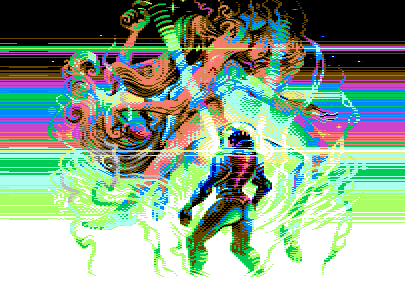
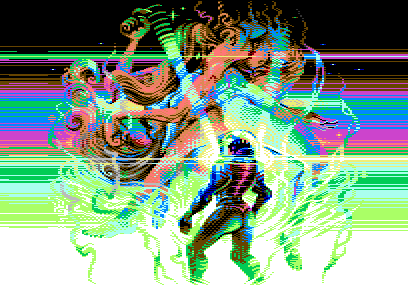
Show as much of the raster as VICE does
Our visible window was 405x284; VICE's, with full borders on, is 408x293.
Measuring both boot screens by the one landmark that is unambiguous in
each - the 320x200 display window - shows where the difference sits:

               VICE          ours
  raster       408x293       405x284
  window x     48..367       48..367
  window y     43..242       35..234
  margins      48/40/43/50   48/37/35/49   (l/r/t/b)

The left margin and the window's x origin already agreed, so dot 0 was
never in the wrong place; we were simply cutting three dots off the right
and nine lines off the top and bottom. Three constants say so:

  VisibleDotsPerLine  405 -> 408
  lastVBlankLine       15 -> 7     (FirstVisibleLine 16 -> 8)
  firstVBlankLine     300 -> 301   (VisibleLines 284 -> 293)

Nothing in the VIC's timing reads these. lineVisible gates whether a dot
is stored, not whether it is generated, and bad lines, sprite fetches and
raster IRQs all compare rasterLine directly. cmd/snapshot's activeBounds
is already written in absolute raster lines (51..251), so it followed the
change on its own and lands at y=43, which is where VICE has it.

The fixtures are regenerated, and every pixel of the old ones survives at
the same absolute raster coordinate - old row j is new row j+8, same x,
zero differences across all eight. So this is framing, not rendering.

What that newly uncovered territory contains is the part worth checking
against VICE, because it was never on screen before. It is not all
[…]

diff --git a/cmd/snapshot/fixtures_unit_test.go b/cmd/snapshot/fixtures_unit_test.go
@@ -30,6 +30,8 @@ func solidSnapshot(bounds image.Rectangle, index int) *image.RGBA {
 
 func TestCompareSnapshots(t *testing.T) {
 	bounds := snapshotBounds(false)
+	lastX, lastY := bounds.Dx()-1, bounds.Dy()-1
+	pixels := bounds.Dx() * bounds.Dy()
 	for _, tc := range []struct {
 		name string
 		edit func(*image.RGBA) image.Image
@@ -37,12 +39,12 @@ func TestCompareSnapshots(t *testing.T) {
 	}{
 		{"identical", func(img *image.RGBA) image.Image { return img }, ""},
 		{"one-pixel", func(img *image.RGBA) image.Image {
-			img.SetRGBA(404, 283, paletteColour(2))
+			img.SetRGBA(lastX, lastY, paletteColour(2))
 			return img
-		}, "1/115020 pixels differ; first mismatch at (404,283); expected colour index 0, actual colour index 2"},
+		}, fmt.Sprintf("1/%d pixels differ; first mismatch at (%d,%d); expected colour index 0, actual colour index 2", pixels, lastX, lastY)},
 		{"full-raster", func(*image.RGBA) image.Image {
 			return solidSnapshot(bounds, 2)
-		}, "115020/115020 pixels differ; first mismatch at (0,0); expected colour index 0, actual colour index 2"},
+		}, fmt.Sprintf("%d/%d pixels differ; first mismatch at (0,0); expected colour index 0, actual colour index 2", pixels, pixels)},
 		{"dimensions", func(*image.RGBA) image.Image {
 			return solidSnapshot(snapshotBounds(true), 0)
 		}, "dimensions"},
@@ -83,7 +85,7 @@ func TestCompareSnapshots(t *testing.T) {
 				t.Fatalf("diff bounds = %v", diff.Bounds())
 			}
 			if tc.name == "one-pixel" {
-				if got := diff.RGBAAt(404, 283); got != (color.RGBA{255, 0, 255, 255}) {
+				if got := diff.RGBAAt(lastX, lastY); got != (color.RGBA{255, 0, 255, 255}) {
 					t.Fatalf("mismatch diff pixel = %v", got)
 				}
 				if got := diff.RGBAAt(0, 0); got != (color.RGBA{0, 0, 0, 255}) {
@@ -128,7 +130,7 @@ func TestReadSnapshot(t *testing.T) {
 			t.Fatalf("wrong dimensions: %v", err)
 		}
 	}
-	if err := writePNG(path, solidSnapshot(image.Rect(0, 0, 406, 284), 0)); err != nil {
+	if err := writePNG(path, solidSnapshot(image.Rect(0, 0, tiny64.VisibleDotsPerLine+1, tiny64.VisibleLines), 0)); err != nil {
 		t.Fatal(err)
 	}
 	if _, err := readSnapshot(path, snapshotBounds(false)); err == nil {

diff --git a/6569.go b/6569.go
@@ -12,20 +12,26 @@ const (
 
 	// dot 0 is the leftmost position of a raster line (inside the left
 	// overscan, so not necessarily visible on a given TV); the beam moves
-	// one dot right per dot clock, and dots 0-404 carry picture. The
+	// one dot right per dot clock, and dots 0-407 carry picture. The
 	// remaining dots are the horizontal blanking interval, during which
 	// the beam retraces to the left and the line counter advances.
-	VisibleDotsPerLine = 405
+	//
+	// 408 is how much of the line VICE keeps with full borders on. The
+	// display window lands at dots 48-367 either way, so this only widens
+	// the right border; the left edge is already where VICE puts it.
+	VisibleDotsPerLine = 408
 
-	// PAL 6569 vertical blanking interval: raster lines 300-311 and 0-15,
-	// during which the video signal (and thus the raster) is off.
-	firstVBlankLine = 300
-	lastVBlankLine  = 15
+	// PAL 6569 vertical blanking interval: raster lines 301-311 and 0-7.
+	// These bound the picture rather than the 6569's own blanking, and are
+	// set to keep the same 293 lines VICE shows with full borders on.
+	firstVBlankLine = 301
+	lastVBlankLine  = 7
 
-	// The picture occupies raster lines 16-299; writePixelToBuffer is
+	// The picture occupies raster lines 8-300; writePixelToBuffer is
 	// never called outside FirstVisibleLine..FirstVisibleLine+VisibleLines
 	// horizontally 0..VisibleDotsPerLine, so a display only needs a buffer
-	// that size.
+	// that size. The display window is raster lines 51-250, leaving 43
+	// lines of border above it and 50 below, as VICE has it.
 	FirstVisibleLine = lastVBlankLine + 1
 	VisibleLines     = firstVBlankLine - FirstVisibleLine
 

diff --git a/pixel_sink_indexed_test.go b/pixel_sink_indexed_test.go
@@ -17,12 +17,15 @@ func saveFrameBuffers(t *testing.T) {
 
 func TestFrameBufferIndexedLayout(t *testing.T) {
 	saveFrameBuffers(t)
+	// 408 dots is already a multiple of four, so the stride carries no
+	// padding; the row-length check below would not catch a regression
+	// that reintroduced some, hence asserting both.
 	if FrameBufferStride != 408 || FrameBufferStride%4 != 0 {
 		t.Fatalf("indexed stride = %d, want 408 and divisible by four", FrameBufferStride)
 	}
 	fb := FrameBufferIndexed()
-	if len(fb) != 115872 {
-		t.Fatalf("indexed visible length = %d, want 115872", len(fb))
+	if want := FrameBufferStride * VisibleLines; len(fb) != want {
+		t.Fatalf("indexed visible length = %d, want %d", len(fb), want)
 	}
 	for i := range frameBufferIndexed {
 		frameBufferIndexed[i] = 0xff
@@ -49,8 +52,8 @@ func TestFrameBufferIndexedLayout(t *testing.T) {
 	}
 
 	rgba := FrameBufferRGBA()
-	if len(rgba) != 460080 {
-		t.Fatalf("RGBA length = %d, want 460080", len(rgba))
+	if want := VisibleDotsPerLine * VisibleLines * 4; len(rgba) != want {
+		t.Fatalf("RGBA length = %d, want %d", len(rgba), want)
 	}
 	for y := range VisibleLines {
 		for x := range VisibleDotsPerLine {

diff --git a/cmd/snapshot/main_test.go b/cmd/snapshot/main_test.go
@@ -74,14 +74,14 @@ func TestCaptureBounds(t *testing.T) {
 	}
 
 	full := capture(fb, borderBounds)
-	if got := full.Bounds(); got != imageRect(405, 284) {
+	if got := full.Bounds(); got != imageRect(tiny64.VisibleDotsPerLine, tiny64.VisibleLines) {
 		t.Fatalf("border bounds = %v", got)
 	}
 	cropped := capture(fb, activeBounds)
 	if got := cropped.Bounds(); got != imageRect(320, 200) {
 		t.Fatalf("crop bounds = %v", got)
 	}
-	if got := cropped.RGBAAt(0, 0); got != (color.RGBA{48, 35, 0xaa, 0xff}) {
+	if got := cropped.RGBAAt(0, 0); got != (color.RGBA{48, byte(51 - tiny64.FirstVisibleLine), 0xaa, 0xff}) {
 		t.Fatalf("first crop pixel = %#v", got)
 	}
 }
@@ -115,7 +115,7 @@ func TestRenderMachineCode(t *testing.T) {
 	if err != nil {
 		t.Fatal(err)
 	}
-	if got := img.Bounds(); got != imageRect(405, 284) {
+	if got := img.Bounds(); got != imageRect(tiny64.VisibleDotsPerLine, tiny64.VisibleLines) {
 		t.Fatalf("rendered bounds = %v", got)
 	}
 	if got := color.RGBAModel.Convert(img.At(0, 0)).(color.RGBA); got != (color.RGBA{0x88, 0, 0, 0xff}) {

diff --git a/cmd/internal/desktop/display_test.go b/cmd/internal/desktop/display_test.go
@@ -26,15 +26,16 @@ func TestDisplayDimensions(t *testing.T) {
 	}
 	defer d.shader.Deallocate()
 	defer d.frame.Deallocate()
-	if got := d.frame.Bounds().Size(); got.X != 102 || got.Y != 284 {
-		t.Fatalf("texture size = %v, want 102x284", got)
+	wantX, wantY := tiny64.FrameBufferStride/4, tiny64.VisibleLines
+	if got := d.frame.Bounds().Size(); got.X != wantX || got.Y != wantY {
+		t.Fatalf("texture size = %v, want %dx%d", got, wantX, wantY)
 	}
 	if got, want := len(tiny64.FrameBufferIndexed()), 4*d.frame.Bounds().Dx()*d.frame.Bounds().Dy(); got != want {
 		t.Fatalf("indexed length = %d, want %d upload bytes", got, want)
 	}
 	var e emulator
-	if w, h := e.Layout(810, 568); w != 405 || h != 284 {
-		t.Fatalf("visible size = %dx%d, want 405x284", w, h)
+	if w, h := e.Layout(810, 568); w != tiny64.VisibleDotsPerLine || h != tiny64.VisibleLines {
+		t.Fatalf("visible size = %dx%d, want %dx%d", w, h, tiny64.VisibleDotsPerLine, tiny64.VisibleLines)
 	}
 }
 

diff --git a/cmd/snapshot/main.go b/cmd/snapshot/main.go
@@ -101,7 +101,7 @@ func parseFlags(args []string) (config, error) {
 	fs.StringVar(&cfg.output, "o", "snapshot.png", "final PNG filename")
 	fs.StringVar(&cfg.outPattern, "out-pattern", "", "write every frame using a fmt pattern such as frame_%04d.png")
 	fs.BoolVar(&cfg.crop, "crop", false, "capture only the 320x200 active display")
-	fs.BoolVar(&cfg.border, "border", false, "capture the full 405x284 visible PAL raster (default)")
+	fs.BoolVar(&cfg.border, "border", false, "capture the full 408x293 visible PAL raster (default)")
 	fs.Var(&cfg.start, "start", "entry address for machine code, in decimal, $hex, or 0xhex")
 	if err := fs.Parse(args); err != nil {
 		return config{}, err

diff --git a/README.md b/README.md
@@ -288,18 +288,18 @@ through a palette shader. The `pixelsink_func` build uses the same storage
 but calls the pixel writer indirectly, for benchmarking.
 
 Four horizontally adjacent pixels are packed into the RGBA channels of one
-texel, including the alpha channel. The 405-pixel rows have a
-`FrameBufferStride` of 408 bytes, with three unused padding bytes, so
-`FrameBufferIndexed` can be uploaded directly without CPU row repacking.
-The visible picture remains 405x284; the texture is 102x284 and the upload
-is 115,872 bytes rather than 460,080 bytes of RGBA. The indexed raster
+texel, including the alpha channel. The 408-pixel rows have a
+`FrameBufferStride` of 408 bytes, with no padding, so `FrameBufferIndexed`
+can be uploaded directly without CPU row repacking.
+The visible picture remains 408x293; the texture is 102x293 and the upload
+is 119,544 bytes rather than 478,176 bytes of RGBA. The indexed raster
 storage, including non-visible lines, occupies 127,296 bytes.
 `cmd/internal/desktop/palette.kage` selects each pixel's channel and looks
 up its colour in the palette uniform.
 
 `FrameBufferRGBA` expands a frame for the callers that do want whole
 pixels on the CPU -- the tests and `cmd/snapshot` -- into a tightly packed
-405x284 RGBA buffer (460,080 bytes), excluding the indexed row padding.
+408x293 RGBA buffer (478,176 bytes).
 It returns shared storage: emulation does not update it, but the next call
 overwrites it. Copy the result to retain a snapshot across calls.
 `FrameBufferIndexed`, in contrast, is a live view of the emulated frame.
@@ -373,7 +373,7 @@ The manifest schema is:
 
 `start` is optional; omit it to preserve BASIC `RUN` or the PRG load address.
 It accepts a string containing decimal, `$hex`, or `0xhex`. `crop` is
-required and explicit: `false` selects the full 405x284 visible PAL raster;
+required and explicit: `false` selects the full 408x293 visible PAL raster;
 `true` selects the 320x200 active display. All other fields shown are
 required. Checkpoints must be nonempty, with positive, unique frame numbers
 and unique PNG filenames. File names must be local basenames with `.prg` or
